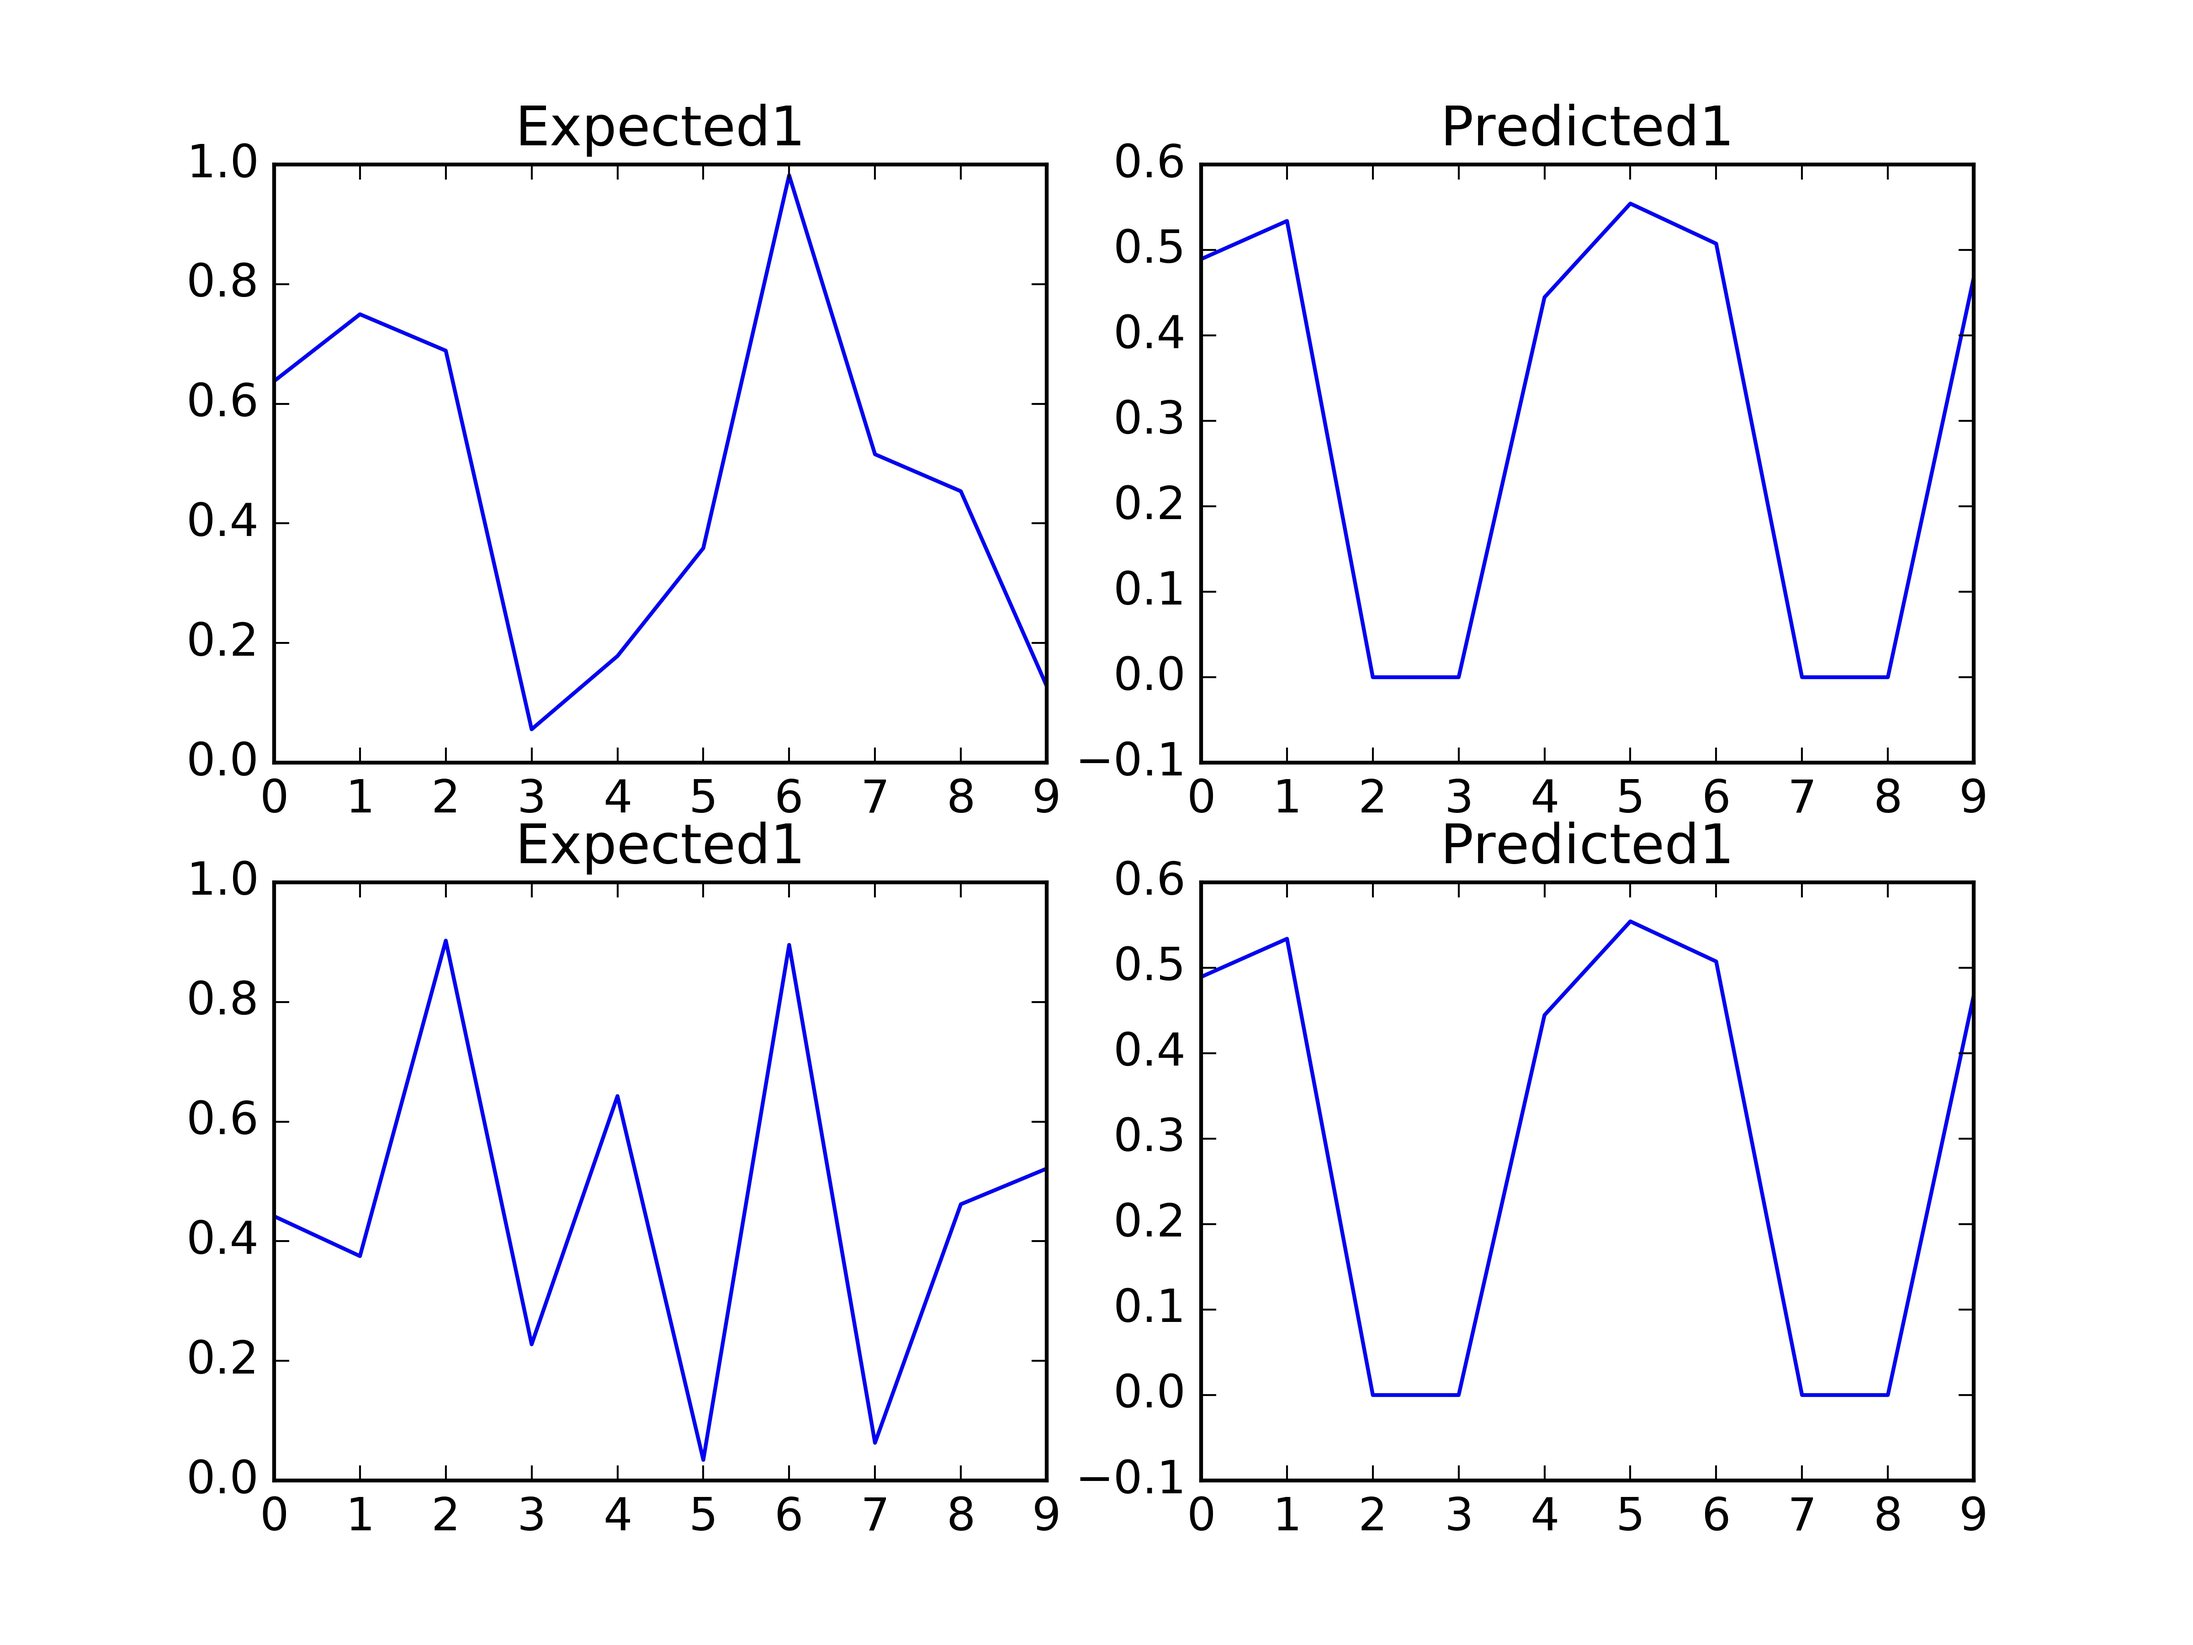
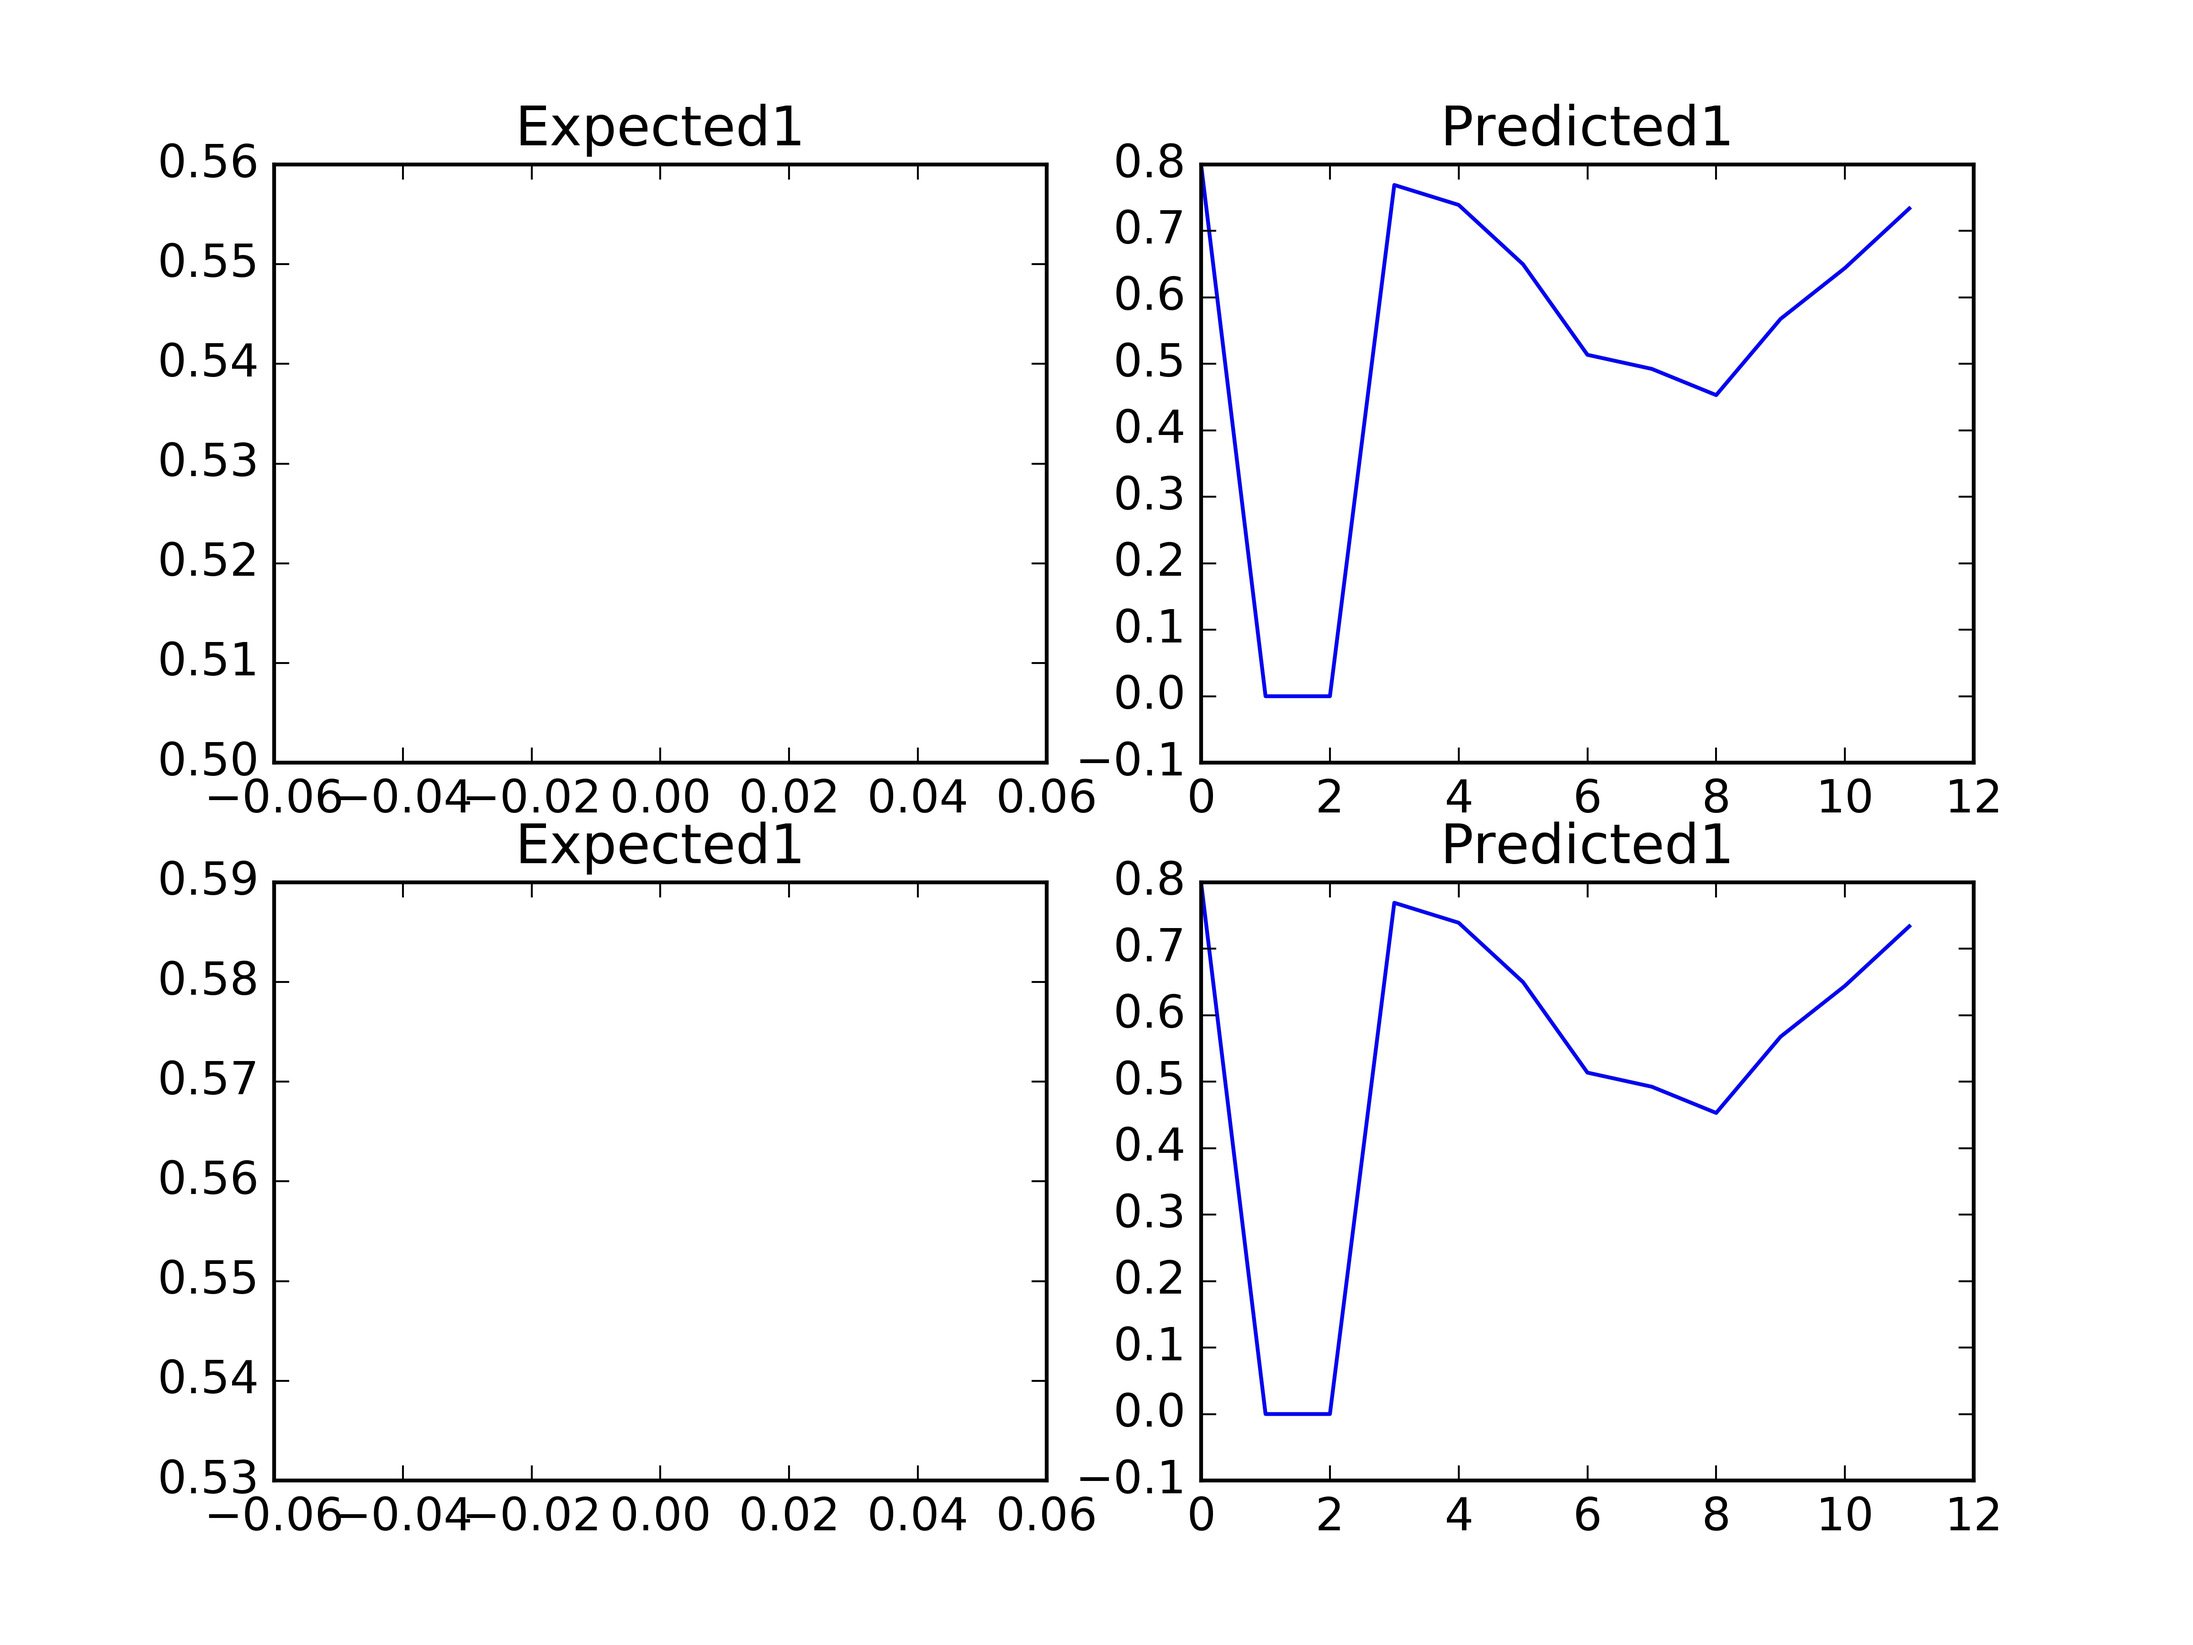
add a new file

diff --git a/WGS/keras_usage/wgs_merge3.py b/WGS/keras_usage/wgs_merge3.py
@@ -11,6 +11,7 @@ from __future__ import absolute_import
 from __future__ import print_function
 from keras.preprocessing.image import ImageDataGenerator
 from keras.models import Sequential
+from keras.layers import TimeDistributed
 from keras.layers.core import Dense, Dropout, Activation, Flatten, TimeDistributedDense, RepeatVector
 from keras.layers.advanced_activations import PReLU
 from keras.layers.convolutional import Convolution2D, MaxPooling2D
@@ -26,7 +27,7 @@ import numpy as np
 import matplotlib.pyplot as plt
 
 
-#images, captions, next_words = load_data()
+images, captions, next_words = load_data()
 
 nb_samples = 384
 nb_channels = 5
@@ -46,9 +47,9 @@ nb_epoch = 10
 # containing a categorical encoding (0s and 1s) of the next word in the corresponding
 # partial caption.
 
-images = np.random.random((nb_samples,nb_channels,width,height))
-captions = np.random.random((nb_samples,max_caption_len))
-next_words = np.random.random ((nb_samples,vocab_size))
+#images = np.random.random((nb_samples,nb_channels,width,height))
+#captions = np.random.random((nb_samples,max_caption_len))
+#next_words = np.random.random ((nb_samples,vocab_size))
 '''
 print('Pad sequences (samples x time)')
 X_train = sequence.pad_sequences(X_train, maxlen=maxlen)
@@ -56,9 +57,9 @@ X_test = sequence.pad_sequences(X_test, maxlen=maxlen)
 print('X_train shape:', X_train.shape)
 print('X_test shape:', X_test.shape)
 '''
-#print ( 'captions',captions[1] )
-#print ( 'images',images[1] )
-#print ( 'next_words',next_words[1] )
+print ( 'captions',captions[1] )
+print ( 'images',images[1] )
+print ( 'next_words',next_words[1] )
 print ( 'images.shape',images.shape)
 print ( 'captions.shape',captions.shape)
 print ( 'next_words.shape',next_words.shape)
@@ -113,7 +114,8 @@ image_model.add(Dense(128))
 language_model = Sequential()
 language_model.add(Embedding(vocab_size, 256, input_length=max_caption_len))
 language_model.add(GRU(output_dim=128, return_sequences=True))
-language_model.add(TimeDistributedDense(128))
+language_model.add(TimeDistributed(Dense(128)))
+#language_model.add(TimeDistributedDense(128))
 
 # let's repeat the image vector to turn it into a sequence.
 image_model.add(RepeatVector(max_caption_len))
@@ -138,10 +140,9 @@ model.compile(loss='mean_squared_error', optimizer=rmspro)
 model.fit([images,captions], next_words, batch_size=batch_size, nb_epoch=nb_epoch,shuffle=True,verbose=1,validation_split=0.2)
 
 print('Predicting')
-predicted_output = model.predict([images[1:5],p_captions[1:5]],batch_size=batch_size)
+predicted_output = model.predict([images[1:5],captions[1:5]],batch_size=batch_size)
 print ( 'label',next_words[1:5] )
 print('predicted_lable',predicted_output)
-exit()
 print('Plotting Results')
 plt.subplot(2, 2, 1)
 plt.plot(next_words[1])
@@ -150,7 +151,7 @@ plt.subplot(2, 2, 2)
 plt.plot(predicted_output[1])
 plt.title('Predicted1')
 plt.subplot(2, 2, 3)
-plt.plot(next_words[2])
+plt.plot(,next_words[2])
 plt.title('Expected1')
 plt.subplot(2, 2, 4)
 plt.plot(predicted_output[2])

diff --git a/WGS/keras_usage/data3.py b/WGS/keras_usage/data3.py
@@ -15,7 +15,7 @@ import numpy as np
 
 def load_data():
 	nb_samples = 384
-	nb_channels = 3
+	nb_channels = 5
 	width = 100
 	height = 100
 
@@ -45,7 +45,7 @@ def load_data():
 	mat=sio.loadmat(matfn)  
 	#print type(mat)
 	#print mat
-	sst=mat['sst']
+	sst1=mat['sst']
 	t2m=mat['t2m']
 	msl=mat['msl']
 	u10=mat['u10']
@@ -54,6 +54,10 @@ def load_data():
 	lon=mat['lon']
 	lat=mat['lat']
 	time=mat['time']
+        sst=np.nan_to_num(sst1)
+	#print (sst1[1:100])
+	#print (sst[1:100])
+	#exit()
 	print ( sst.shape )
 	#print ( 'lon', lon)
 	#print ( 'lat', lat)
@@ -62,33 +66,41 @@ def load_data():
 	for i in range(nb_samples):
 		for j in range(width):
 			for k in range(height):
-				data[i,0,j,k] = sst[k,99-j,i]
+				data[i,0,j,k] = sst[k,99-j,i]+0.0
 				data[i,1,j,k] = t2m[k,99-j,i]
 				data[i,2,j,k] = msl[k,99-j,i]
-				#data[i,3,j,k] = u10[k,99-j,i]
-				#data[i,4,j,k] = v10[k,99-j,i]
-
-	#归一化和零均值化
+				data[i,3,j,k] = u10[k,99-j,i]
+				data[i,4,j,k] = v10[k,99-j,i]
+	#print 'origtion'
+	#print (data[1:5,:,50,50])
+	for i in range(nb_channels):
+		sacle = np.max(data[:,i,:,:])
+		data[:,i,:,:] /= sacle
+		mean = np.std(data[:,i,:,:])
+		data[:,i,:,:] -= mean
+		#print ('sacle',sacle,'mean',mean)
 	
-	scale = np.max(data)
-	print ( 'sacle',scale )
-	print ( 'data',data[100] )
-	data /= scale
-	print ( 'data',data[100] )
-	mean = np.std(data)
-	print ( 'mean',mean )
-	data -= mean
-	print ( 'data',data[100] )
-	return data,label
+	#print 'nomalization'
+	#print (data[1:5,:,50,50])
+	#print (data[:,0,:,:])
+	sacle = np.max(label)
+	label /= sacle
+	mean = np.std(label)
+	label -= mean
 
-data, label = load_data()
-
-
-
-
+	sacle = np.max(next)
+	next /= sacle
+	mean = np.std(next)
+	next -= mean
 
 
 	return data,label,next
+
+
+#data, labeli, next = load_data()
+
+
+'''
 # === 0-1 ===
 def Normalization(x):
 	return [(float(i)-min(x))/float(max(x)-min(x)) for i in x]
@@ -102,6 +114,21 @@ def Normalization2(x):
 x=[1,2,1,4,3,2,5,6,2,7]
 b=Normalization2(x)
 print ( b )
+
+	#归一化和零均值化
+	
+	scale = np.max(data)
+	print ( 'sacle',scale )
+	print ( 'data',data[100] )
+	data /= scale
+	print ( 'data',data[100] )
+	mean = np.std(data)
+	print ( 'mean',mean )
+	data -= mean
+	print ( 'data',data[100] )
+
+'''
+
 '''
 print (sst[1:10])
 print ( sst.shape )
